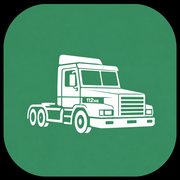
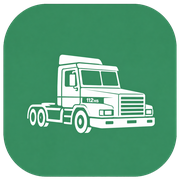
Feature(logistics) Criada a tela de logistica

Changed region(s): [[0.0, 0.0, 1.0, 1.0]]

diff --git a/index.html b/index.html
@@ -1,12 +1,11 @@
 <!doctype html>
 <html lang="pt-BR">
   <head>
+    <link rel="icon" type="image/png" sizes="512x512" href="/favicon.png?v=112hs-transparent" />
+    <link rel="apple-touch-icon" href="/apple-touch-icon.png?v=112hs-transparent" />
     <meta charset="UTF-8" />
     <meta name="viewport" content="width=device-width, initial-scale=1.0" />
-    <link rel="icon" href="/favicon.ico" sizes="any" />
-    <link rel="icon" type="image/png" href="/favicon.png" />
-    <link rel="apple-touch-icon" href="/apple-touch-icon.png" />
-    <meta
+<meta
       name="description"
       content="Tela de login responsiva e componentizada para a HMT Transportes"
     />
